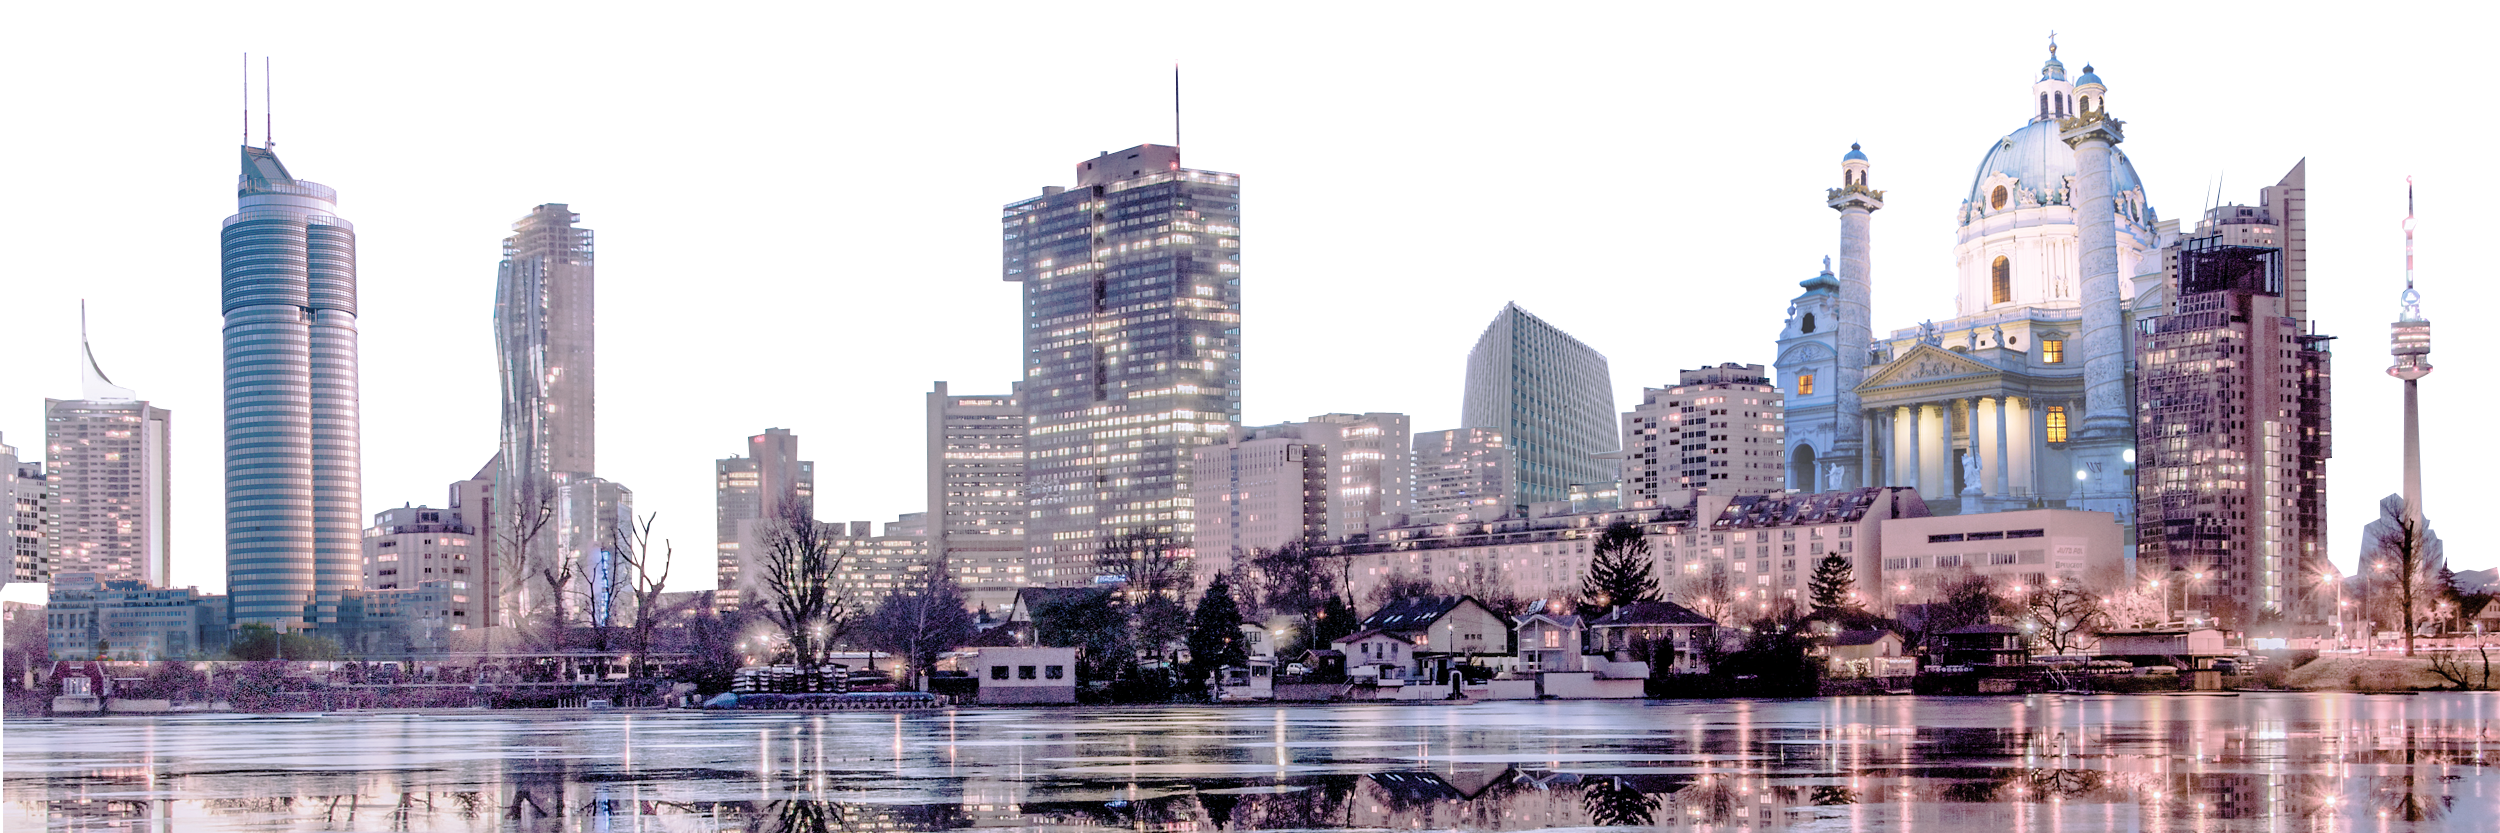
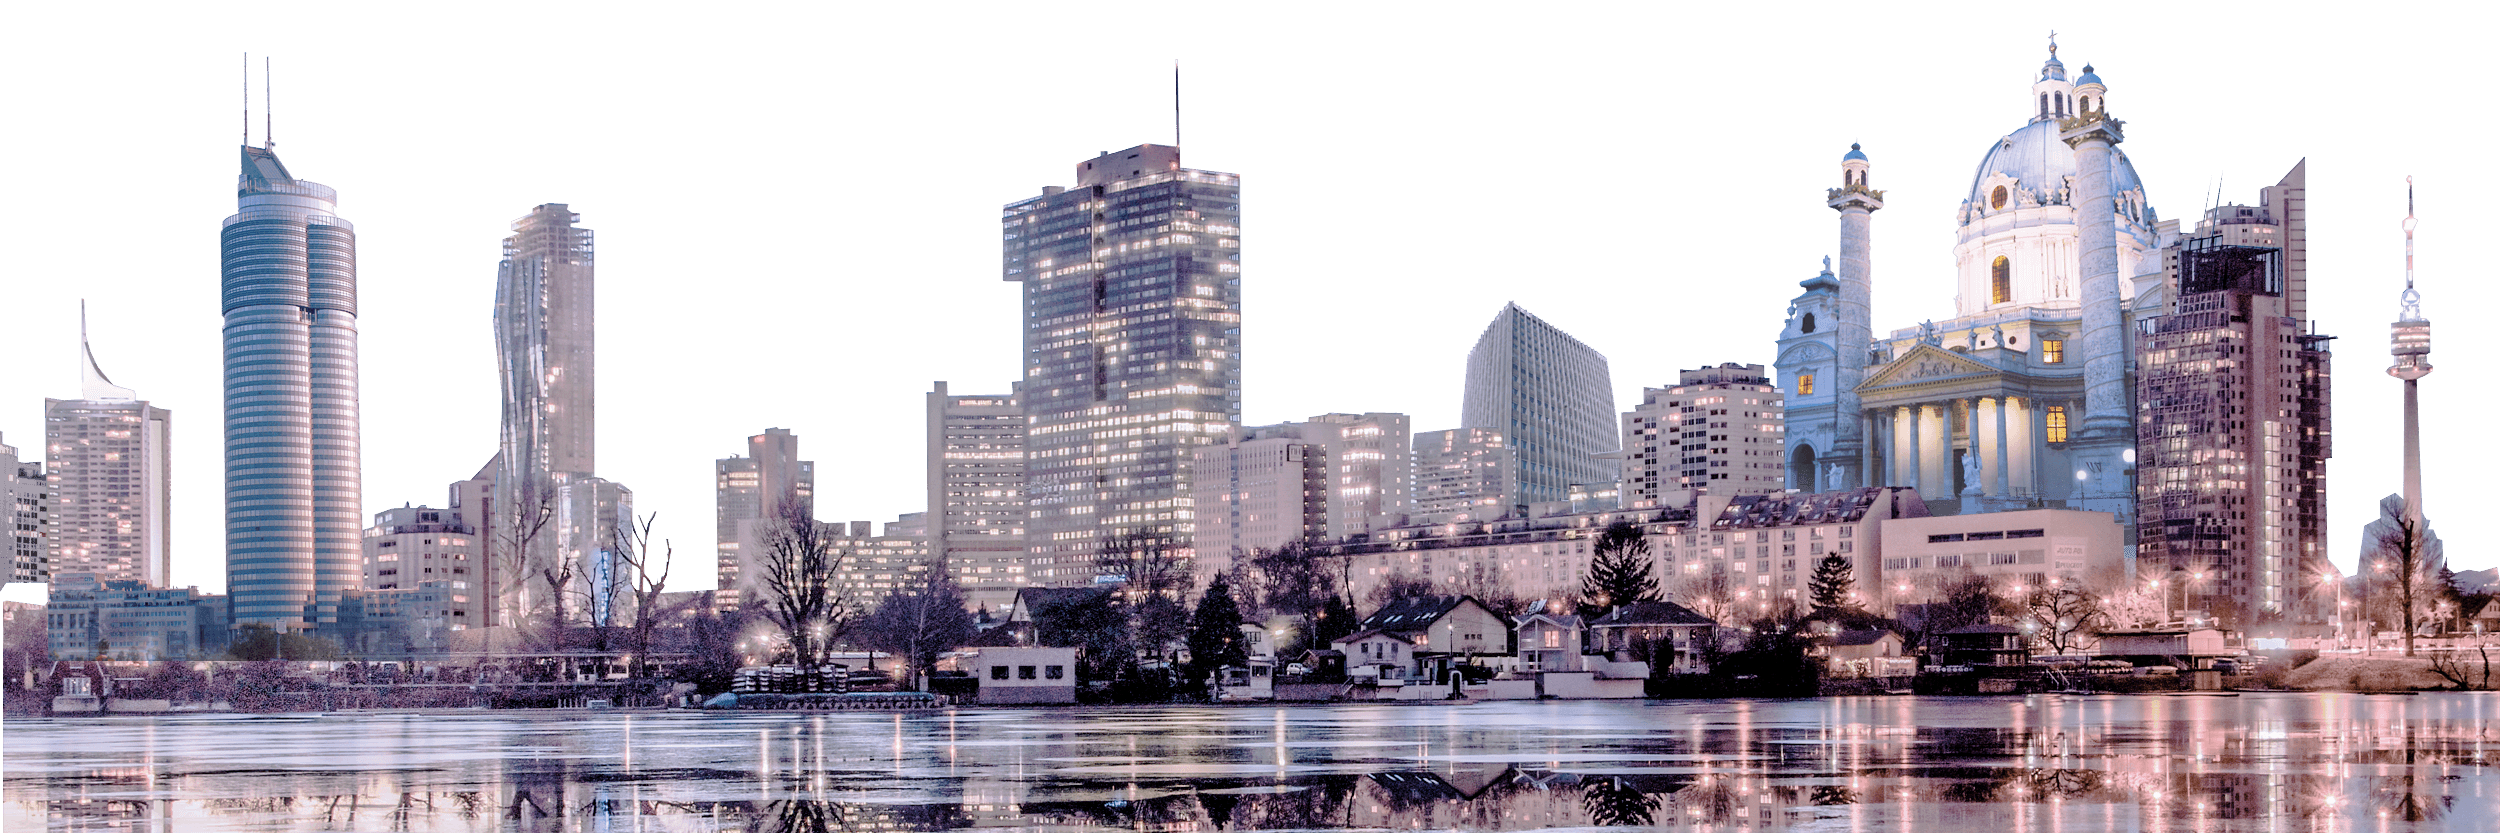
reduced png24 filesize by 70% :) ..  added credits in readme.

Changed region(s): [[0.7176, 0.5306, 0.8736, 0.6242], [0.0, 0.593, 0.0312, 0.6867], [0.8112, 0.4994, 0.8424, 0.5306]]

diff --git a/final/index.html b/final/index.html
@@ -98,7 +98,7 @@
             <section id="finish">
                 <div class="parallax-viewport" id="parallax">
                     <div class="parallax-layer" style="width: 2008px; height: 1000px; margin-top: -550px; left: 0%; margin-left: 0px;">
-                        <img src="img/4/1.png" alt="" style="position:absolute;">
+                        <img src="img/4/1.jpg" alt="" style="position:absolute;">
                     </div>
                     <!--<div class="parallax-layer" style="width: 2000px; height: 332px; margin-top: -163px; left: 0%; margin-left: 0px;">
                         <img src="img/3/1.png" alt="" style="position: absolute; ">
